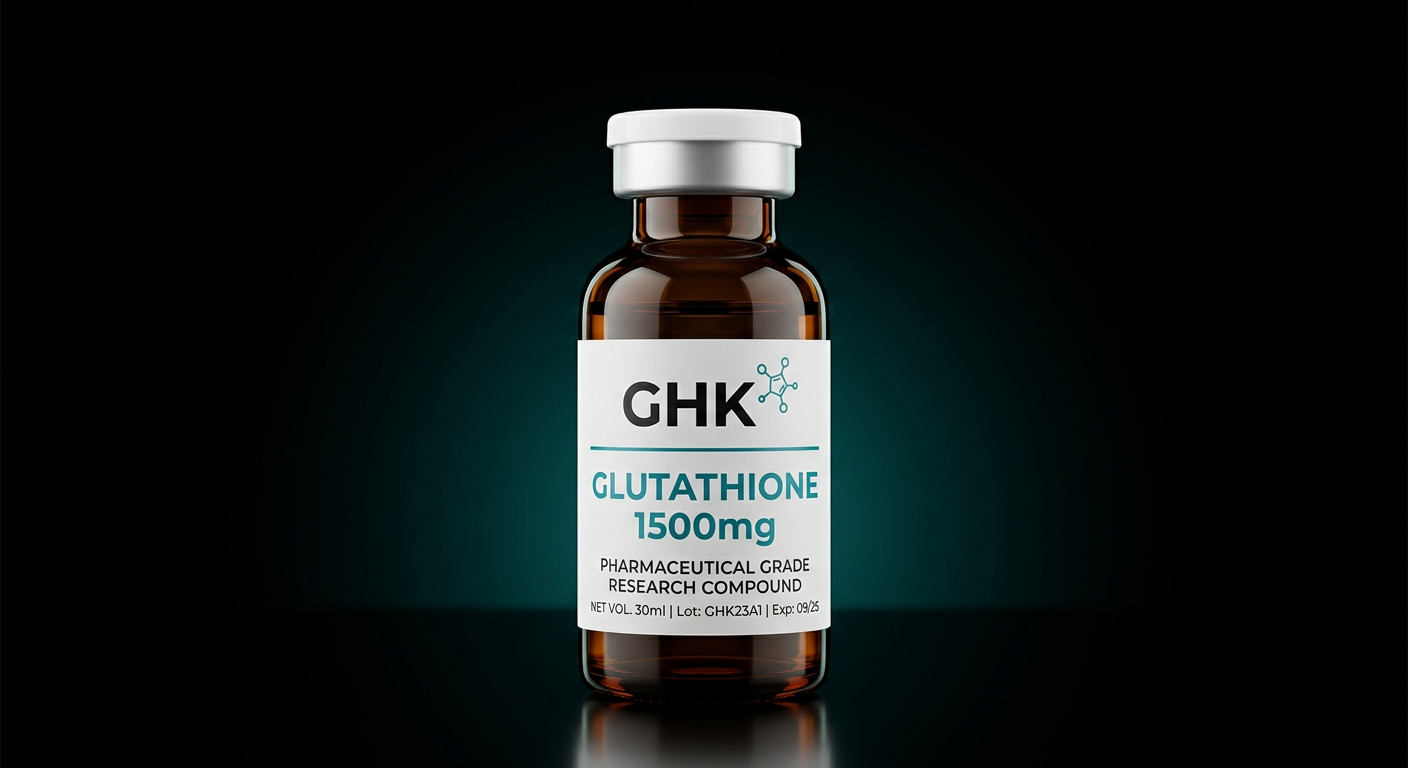
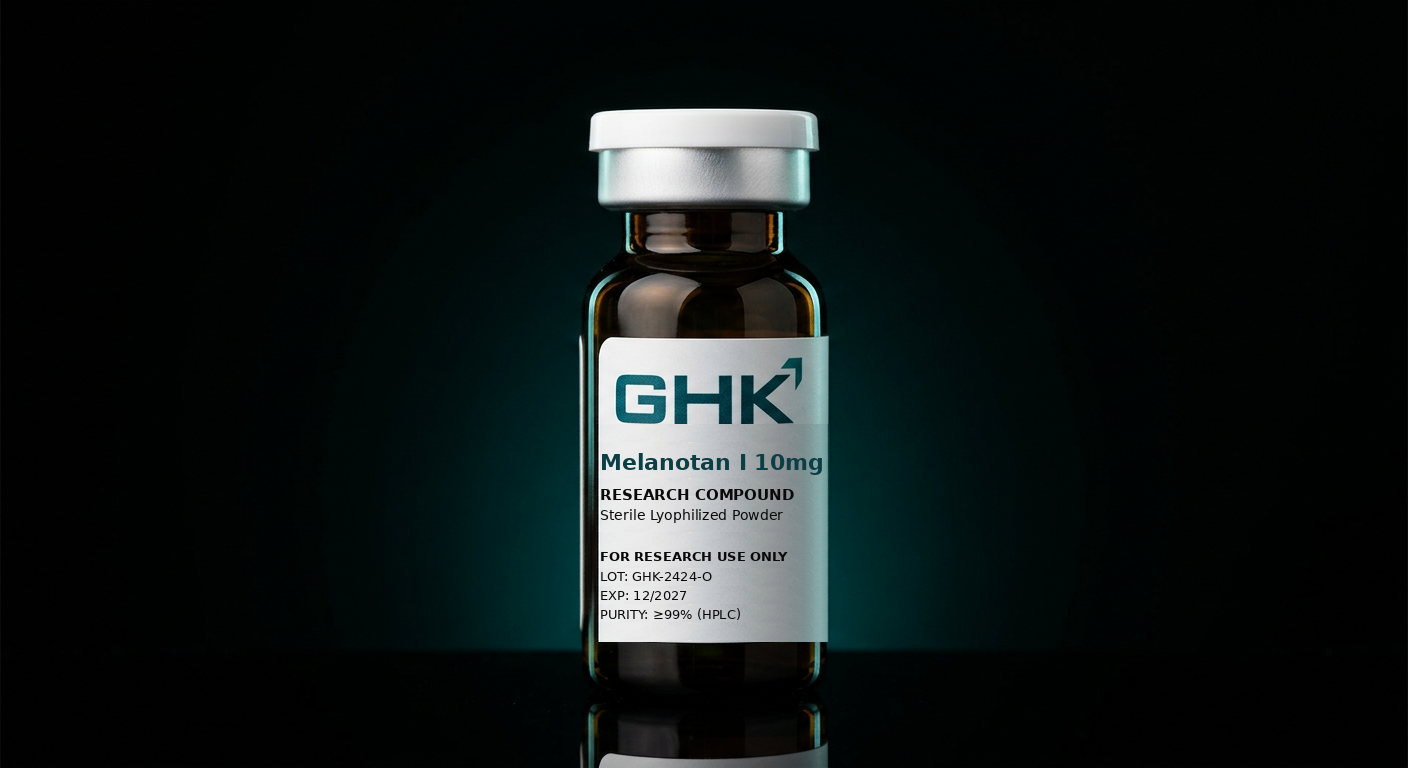
Fix broken product photos: relabel correct vials for ss-31, wolverine, kiss-peptin, cagrilintide, tb-500, melanotan-1/2

Changed region(s): [[0.375, 0.125, 0.625, 1.0]]

diff --git a/src/app/page.tsx b/src/app/page.tsx
@@ -3,10 +3,25 @@ import MaintenanceContactForm from './MaintenanceContactForm';
 
 const RESEARCH_PRODUCTS = products.filter((product) => product.category !== 'accessories');
 const ADDITIONAL_REFERENCE_PRODUCTS = [
-  { slug: 'mt-1-reference', name: 'MT-1 10mg', image: '/images/mt-1-10mg.svg' },
-  { slug: 'mt-2-reference', name: 'MT-2 10mg', image: '/images/mt-2-10mg.svg' },
+  { slug: 'mt-1-reference', name: 'MT-1 10mg', image: '/images/melanotan-1-10mg.png' },
+  { slug: 'mt-2-reference', name: 'MT-2 10mg', image: '/images/melanotan-2-10mg.png' },
 ];
 const DISPLAY_PRODUCTS = [...RESEARCH_PRODUCTS, ...ADDITIONAL_REFERENCE_PRODUCTS];
+const WHATSAPP_NUMBER = process.env.NEXT_PUBLIC_WHATSAPP_NUMBER || '';
+const TELEGRAM_USERNAME = process.env.NEXT_PUBLIC_TELEGRAM_USERNAME || '';
+const QUICK_MESSAGE_TEXT = 'Hello, I would like to leave a message about product availability.';
+
+const getWhatsAppLink = (number: string, message: string) => {
+  const sanitized = number.replace(/\D/g, '');
+  if (!sanitized) return '';
+  return `https://wa.me/${sanitized}?text=${encodeURIComponent(message)}`;
+};
+
+const getTelegramLink = (username: string, message: string) => {
+  const sanitized = username.trim().replace(/^@+/, '').replace(/[^a-zA-Z0-9_]/g, '');
+  if (!sanitized) return '';
+  return `https://t.me/${sanitized}?text=${encodeURIComponent(message)}`;
+};
 
 export const metadata = {
   title: 'GHKpep | Temporary maintenance',
@@ -14,6 +29,15 @@ export const metadata = {
 };
 
 export default function Home() {
+  const whatsappHref = getWhatsAppLink(WHATSAPP_NUMBER, QUICK_MESSAGE_TEXT);
+  const telegramHref = getTelegramLink(TELEGRAM_USERNAME, QUICK_MESSAGE_TEXT);
+  const primaryMessageHref = whatsappHref || telegramHref || '#maintenance-enquiry';
+  const primaryMessageLabel = whatsappHref
+    ? 'Leave a message on WhatsApp'
+    : telegramHref
+      ? 'Leave a message on Telegram'
+      : 'Leave a message by enquiry form';
+
   return (
     <div className="min-h-[70vh] bg-[#eef4f8] text-[#10263d]">
       <div className="max-w-5xl mx-auto px-4 sm:px-6 lg:px-8 py-16 sm:py-20">
@@ -73,6 +97,41 @@ export default function Home() {
             </p>
             <p className="mt-3 font-semibold text-[#2e617e]">If you know GHK, you understand. If you do not know GHK, we can help.</p>
             <p className="mt-3 text-sm text-[#425b6d]">Ask and we will assist where we can. We keep product, COA, and quality information factual and clear, without inflated claims.</p>
+            <a
+              href={primaryMessageHref}
+              target={primaryMessageHref.startsWith('http') ? '_blank' : undefined}
+              rel={primaryMessageHref.startsWith('http') ? 'noopener noreferrer' : undefined}
+              className="mt-4 inline-flex items-center rounded-md bg-[#2e617e] px-4 py-2 text-sm font-semibold text-white transition hover:bg-[#214d68]"
+            >
+              {primaryMessageLabel}
+            </a>
+            {(whatsappHref || telegramHref) && (
+              <div className="mt-4 rounded-md border border-[#cbdbe6] bg-[#f7fbfe] p-4">
+                <p className="text-sm font-semibold text-[#2e617e]">Leave a quick message</p>
+                <div className="mt-3 flex flex-wrap gap-2">
+                  {whatsappHref && (
+                    <a
+                      href={whatsappHref}
+                      target="_blank"
+                      rel="noopener noreferrer"
+                      className="inline-flex items-center rounded-md bg-[#2e617e] px-4 py-2 text-sm font-semibold text-white transition hover:bg-[#214d68]"
+                    >
+                      Message on WhatsApp
+                    </a>
+                  )}
+                  {telegramHref && (
+                    <a
+                      href={telegramHref}
+                      target="_blank"
+                      rel="noopener noreferrer"
+                      className="inline-flex items-center rounded-md border border-[#9db8c7] bg-white px-4 py-2 text-sm font-semibold text-[#2e617e] transition hover:bg-[#eef4f8]"
+                    >
+                      Message on Telegram
+                    </a>
+                  )}
+                </div>
+              </div>
+            )}
             <MaintenanceContactForm />
           </div>
 

diff --git a/src/data/products.ts b/src/data/products.ts
@@ -181,7 +181,7 @@ export const products: Product[] = [
     categoryLabel: "Mitochondrial",
     description: "Mitochondria-targeted four-residue synthetic sequence. Supplied for in vitro laboratory research.",
     lot: "GHK-2423-N",
-    image: "/images/ss-31-10mg.svg"
+    image: "/images/ss-31-10mg.png"
   },
   {
     slug: "melanotan-1",
@@ -205,7 +205,7 @@ export const products: Product[] = [
     categoryLabel: "Copper Composite",
     description: "Copper-bound composite, lyophilized powder. Supplied for in vitro laboratory research.",
     lot: "GHK-2425-P",
-    image: "/images/wolverine-10mg.svg"
+    image: "/images/wolverine-10mg.png"
   },
   {
     slug: "kiss-peptin",
@@ -217,7 +217,7 @@ export const products: Product[] = [
     categoryLabel: "Peptide",
     description: "Synthetic kisspeptin-10 sequence. Supplied for in vitro laboratory research.",
     lot: "GHK-2426-Q",
-    image: "/images/kisspeptin-10mg.svg"
+    image: "/images/kisspeptin-10mg.png"
   },
   {
     slug: "cagrilintide",
@@ -229,7 +229,7 @@ export const products: Product[] = [
     categoryLabel: "Amylin Research",
     description: "Amylin-related sequence analog. Supplied for in vitro laboratory research.",
     lot: "GHK-2427-R",
-    image: "/images/cagrilintide-5mg.svg"
+    image: "/images/cagrilintide-5mg.png"
   },
   {
     slug: "kpv",
@@ -325,7 +325,7 @@ export const products: Product[] = [
     categoryLabel: "Thymosin Fragment",
     description: "Acetylated Thymosin beta-4 fragment. Lyophilized powder, ≥99% purity (HPLC). Supplied for in vitro laboratory research.",
     lot: "GHK-2435-Z",
-    image: "/images/tb-500-10mg.svg"
+    image: "/images/tb-500-10mg.png"
   },
   {
     slug: "semax",
